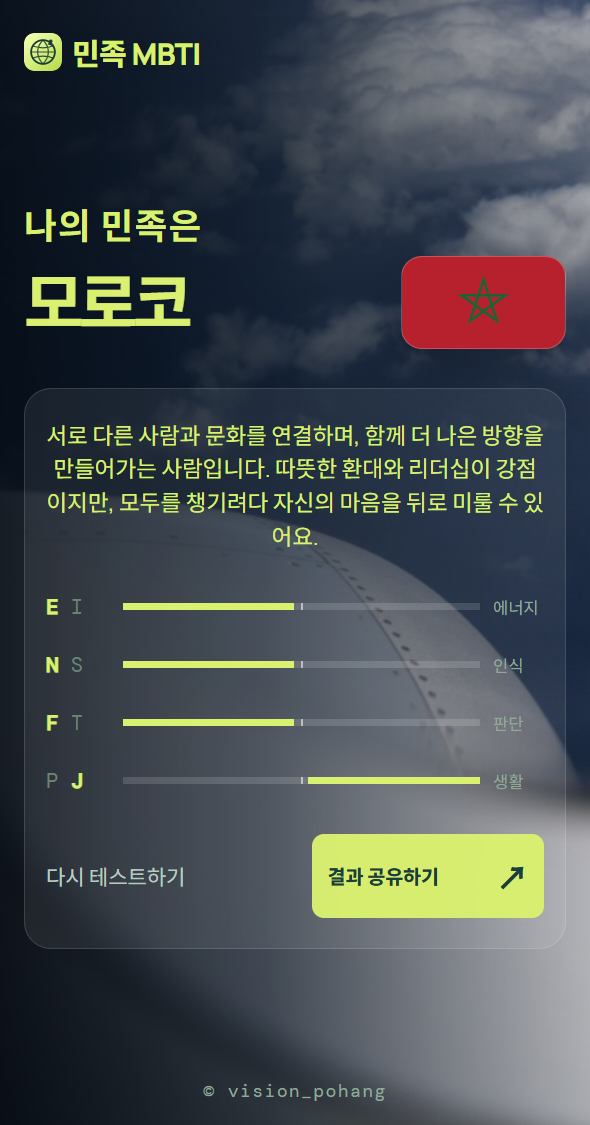
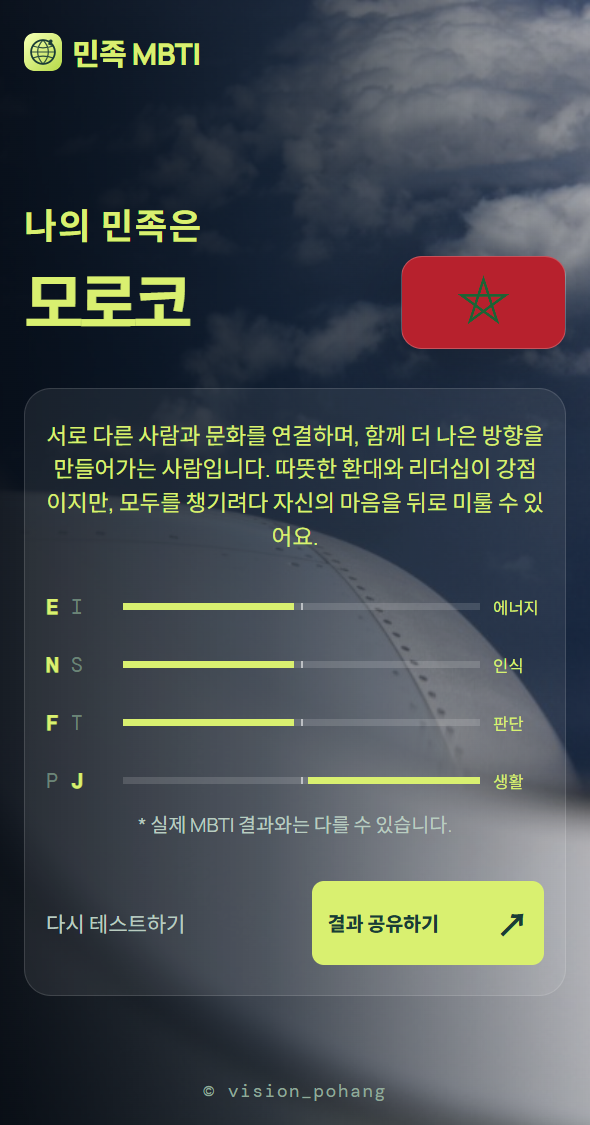
Udate MBTI app

diff --git a/src/App.css b/src/App.css
@@ -18,8 +18,9 @@
 @media (hover:hover) and (pointer:fine) { .choice-card:hover { border-color:var(--green); background:#fff; transform:translateY(-4px) scale(1.02); box-shadow:0 14px 30px rgba(27,97,85,.08); } }
 .quiz-footer { width:min(1060px,100%); display:flex; justify-content:space-between; align-items:center; margin:15vh auto 0; color:#a0ada5; font:14px 'DM Mono',monospace; } .back-button,.text-button { border:0; background:none; color:var(--green); cursor:pointer; padding:0; font-size:14px; } .back-button:disabled { color:#c6d0c8; cursor:not-allowed; }
 .result-screen { background:var(--deep); color:#f8faef; display:flex; flex-direction:column; } .result-screen .brand-button { color:#f8faef; } .result-screen .brand-button span { color:var(--lime); } .result-screen .topbar-label { color:#8eaa9b; font:11px 'DM Mono',monospace; letter-spacing:.13em; } .result-layout { width:min(1080px,100%); margin:auto; display:grid; grid-template-columns:.9fr 1.1fr; gap:10%; align-items:center; padding:10vh 0; } .result-screen .eyebrow { color:#8eaa9b; } .result-overline { margin:0 0 12px; } .result-intro h1 { margin:0; color:var(--lime); font-size:clamp(52px,8vw,100px); } .result-intro h1 span { display:block; color:#f8faef; font-size:.38em; letter-spacing:-.06em; margin-top:12px; } .type-pill { display:inline-block; border:1px solid rgba(215,242,107,.45); color:var(--lime); padding:8px 12px; margin-top:26px; font:14px 'DM Mono',monospace; letter-spacing:.1em; } .result-note { max-width:330px; color:#b8ccc0; line-height:1.8; font-size:15px; margin-top:26px; }
-.result-panel { padding:clamp(24px,4vw,44px); background:rgba(255,255,255,.07); border:1px solid rgba(255,255,255,.13); } .result-panel-head { color:#8eaa9b; } .axis-list { margin:38px 0; display:grid; gap:25px; } .axis-row { display:grid; grid-template-columns:52px 1fr 45px; gap:14px; align-items:center; } .axis-labels { display:flex; gap:8px; color:#678477; font:13px 'DM Mono',monospace; } .axis-labels .active { color:var(--lime); font-weight:700; } .axis-track { height:5px; position:relative; overflow:hidden; background:rgba(255,255,255,.14); } .axis-track::after { content:''; position:absolute; left:50%; top:0; bottom:0; width:1px; background:rgba(255,255,255,.55); } .axis-fill { position:absolute; top:0; bottom:0; width:48%; background:var(--lime); } .axis-fill.left { left:0; } .axis-fill.right { right:0; } .axis-name { color:#8eaa9b; font-size:11px; } .result-actions { display:flex; align-items:center; gap:24px; } .result-actions .text-button { color:#b8ccc0; } .result-footer { display:flex; justify-content:space-between; color:#6d9181; font:10px 'DM Mono',monospace; letter-spacing:.08em; }
+.result-panel { padding:clamp(24px,4vw,44px); background:rgba(255,255,255,.07); border:1px solid rgba(255,255,255,.13); } .result-panel-head { color:#8eaa9b; } .axis-list { margin:38px 0 12px; display:grid; gap:25px; } .axis-row { display:grid; grid-template-columns:52px 1fr 45px; gap:14px; align-items:center; } .axis-labels { display:flex; gap:8px; color:#678477; font:13px 'DM Mono',monospace; } .axis-labels .active { color:var(--lime); font-weight:700; } .axis-track { height:5px; position:relative; overflow:hidden; background:rgba(255,255,255,.14); } .axis-track::after { content:''; position:absolute; left:50%; top:0; bottom:0; width:1px; background:rgba(255,255,255,.55); } .axis-fill { position:absolute; top:0; bottom:0; width:48%; background:var(--lime); } .axis-fill.left { left:0; } .axis-fill.right { right:0; } .axis-name { color:#8eaa9b; font-size:11px; } .result-actions { display:flex; align-items:center; gap:24px; } .result-actions .text-button { color:#b8ccc0; } .result-footer { display:flex; justify-content:space-between; color:#6d9181; font:10px 'DM Mono',monospace; letter-spacing:.08em; }
 .share-feedback { margin:12px 0 0; color:#b8ccc0; font-size:13px; line-height:1.5; }
+.result-disclaimer { margin:0 0 28px; color:#b8ccc0; font-size:13px; line-height:1.5; text-align:center; }
 .result-actions .primary-button:disabled { cursor:wait; opacity:.7; }
 .quiz-screen[class*="question-bg-"] { color:#f8faef; background-size:cover; background-position:center; background-repeat:no-repeat; background-attachment:fixed; }
 .quiz-screen[class*="question-bg-"] .brand-button { color:#f8faef; }
@@ -184,7 +185,7 @@
   .result-intro .nation-flag { width:min(190px,100%); }
   .result-panel { padding:32px 36px; }
   .result-panel-note { font-size:20px; line-height:1.6; }
-  .result-panel .axis-list { gap:26px; margin:32px 0; }
+  .result-panel .axis-list { gap:26px; margin:32px 0 12px; }
   .result-panel .axis-row { grid-template-columns:52px minmax(0,1fr) 52px; gap:14px; }
   .result-panel .axis-labels { font-size:18px; }
   .result-panel .axis-name { font-size:16px; }
@@ -231,7 +232,7 @@
   .result-intro .nation-flag { grid-column:2; grid-row:2; width:100%; margin:0; }
   .result-panel { padding:20px 14px; }
   .result-panel-note { margin-bottom:20px; font-size:15px; line-height:1.5; }
-  .result-panel .axis-list { gap:20px; margin:26px 0; }
+  .result-panel .axis-list { gap:20px; margin:26px 0 10px; }
   .result-panel .axis-row { grid-template-columns:42px minmax(0,1fr) 34px; gap:9px; }
   .result-panel .axis-labels { font-size:14px; }
   .result-panel .axis-name { font-size:11px; }

diff --git a/src/components/ResultScreen.jsx b/src/components/ResultScreen.jsx
@@ -44,6 +44,7 @@ export default function ResultScreen({
               );
             })}
           </div>
+          <p className="result-disclaimer">* 실제 MBTI 결과와는 다를 수 있습니다.</p>
           <div className="result-actions">
             <button className="primary-button" onClick={onShare} disabled={!shareReady}>
               {shareReady ? "결과 공유하기" : "이미지 준비 중"} <span>↗</span>

diff --git a/src/components/IntroScreen.jsx b/src/components/IntroScreen.jsx
@@ -19,7 +19,6 @@ export default function IntroScreen({ onStart }) {
         <div className="intro-meta">
           <span>약 3분</span>
           <span>12 questions</span>
-          <span>14 nations</span>
         </div>
       </section>
       <footer className="site-footer">© vision_pohang</footer>
